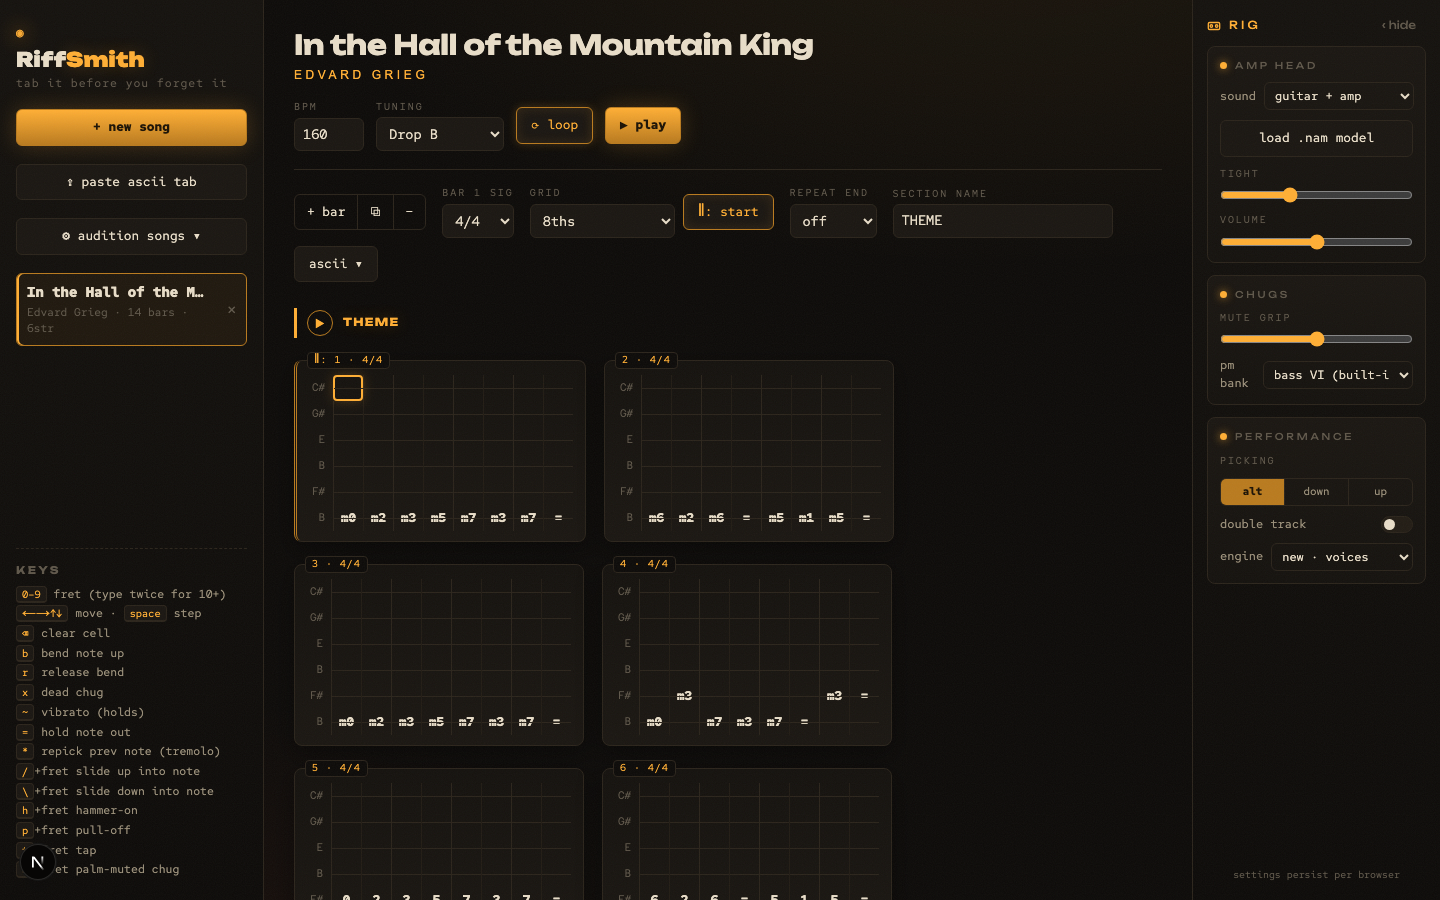
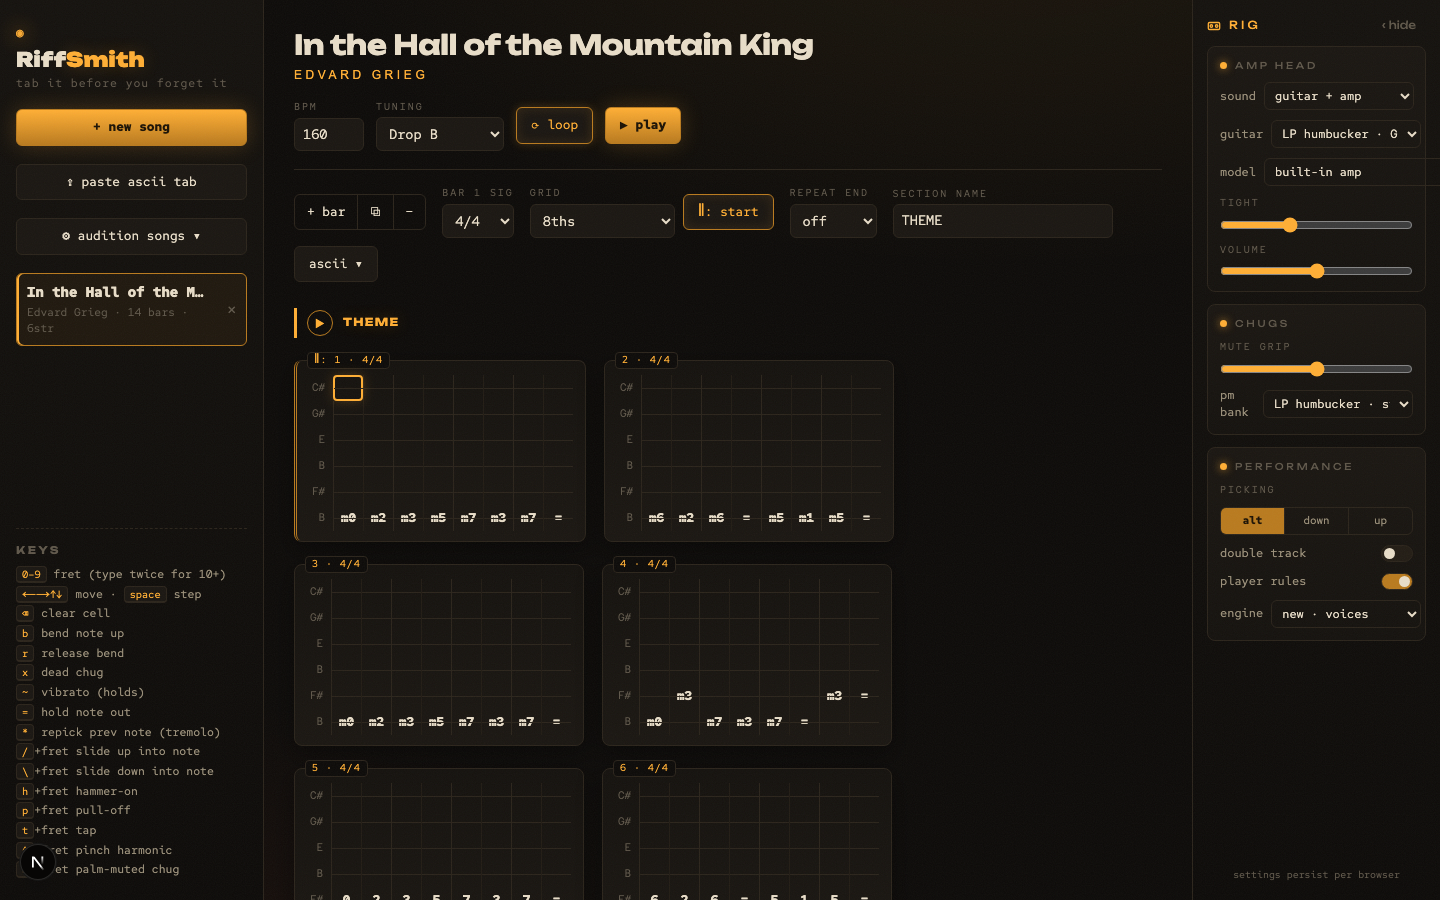
Promo screenshots and copy refreshed for the current engine (banks, pinch harmonics, string model status)

diff --git a/design/devpost.md b/design/devpost.md
@@ -19,7 +19,7 @@ Writing metal on a tab editor is slow, mechanical work: sixteenth-note chug runs
 
 ### What we built
 
-RiffSmith is a browser tab editor for guitar and bass, tuned for metal writing. It imports and exports ASCII tab (including messy hand-written tabs with dense chug runs, section headers, and repeat marks), supports per-bar time signatures from 2/4 to 12/8 and grids from quarters to 16th triplets, and loops any section while you keep editing. Playback runs through a lookahead AudioContext scheduler into a sampled guitar engine with persistent per-string voices: legato hammer-ons, pull-offs and taps as detune automation on one voice, real bends and releases, vibrato, slides, velocity-layered palm-mute chugs with round robins, tremolo picking that overlaps strokes over the ringing body, alternate/down/up picking, and optional double tracking. The signal then goes through a built-in amp chain with a synthetic cabinet IR, or through a real Neural Amp Modeler capture running as WASM inside an AudioWorklet, loudness-normalized from the model's metadata. A rig panel holds the amp and performance settings, and users can import their own palm-mute sample banks. It opens on a Drop B arrangement of Grieg's In the Hall of the Mountain King (public domain): palm-muted theme, the answer a fifth up, a tremolo-picked reprise, and a chord finale. The pure scheduling and import layers have 25 unit tests.
+RiffSmith is a browser tab editor for guitar and bass, tuned for metal writing. It imports and exports ASCII tab (including messy hand-written tabs with dense chug runs, section headers, and repeat marks), supports per-bar time signatures from 2/4 to 12/8 and grids from quarters to 16th triplets, and loops any section while you keep editing. Playback runs through a lookahead AudioContext scheduler into a sampled guitar engine with persistent per-string voices: legato hammer-ons, pull-offs and taps as detune automation on one voice, real bends and releases, vibrato, slides, velocity-layered palm-mute chugs with round robins, tremolo picking as real re-picked notes with a 12 ms handover, alternate/down/up picking, and optional double tracking. The signal then goes through a built-in amp chain with a synthetic cabinet IR, or through a real Neural Amp Modeler capture running as WASM inside an AudioWorklet, loudness-normalized from the model's metadata. The sound comes from real DI recordings with open licenses (Guitar-TECHS, CC BY 4.0, an LP humbucker with palm mutes and pinch harmonics on every position; FreePats, CC0), chosen string-aware so a note plays from the string it is tabbed on, with held bends and slides crossfading into real recordings of the target pitch. An experimental physical string model (Rust compiled to WebAssembly, running in an AudioWorklet) can take over the ring-out. A rig panel holds the amp and performance settings, and users can import their own palm-mute sample banks. It opens on a Drop B arrangement of Grieg's In the Hall of the Mountain King (public domain): palm-muted theme, the answer a fifth up, a tremolo-picked reprise, and a chord finale. The pure scheduling and import layers have 29 unit tests.
 
 ### Why this use case fits WebMCP
 

diff --git a/README.md b/README.md
@@ -81,7 +81,7 @@ Every one of those maps onto the tools above without any UI interaction.
 - Sections and repeat signs, with loop-per-riff playback by bar range or section name.
 - Live editing while looping. The scheduler re-reads song state as it advances, so edits land on the next pass.
 - Lookahead AudioContext scheduler: events are placed about 130 ms ahead on the audio clock and refreshed every 25 ms. JS timers decide when to schedule, never when a note sounds.
-- Sampled guitar engine with persistent per-string voices. Hammer-ons, pull-offs, taps, slides, bends, releases, and vibrato are continuous `detune` automation on the same voice, so a phrase gets one pick transient. Palm-mute chugs use velocity layers and round robins with gap-aware decay. Tremolo picking overlaps short stroke voices on top of the ringing body and re-excites it on long runs. Alternate, down, and up picking with per-stroke tone coloring. Optional double tracking with independent hard-panned L/R takes.
+- Sampled guitar engine with persistent per-string voices. Hammer-ons, pull-offs, taps, slides, bends, releases, and vibrato are continuous `detune` automation on the same voice, so a phrase gets one pick transient. Palm-mute chugs use velocity layers and round robins with gap-aware decay. Tremolo strokes are real re-picked notes with a 12 ms handover, cycling round robins; held bends, slides and hammer-ons crossfade into a recording of the target pitch instead of holding a resampled one. Alternate, down, and up picking with per-stroke tone coloring. Optional double tracking with independent hard-panned L/R takes.
 - Built-in amp chain: tightening high-pass and mid emphasis, waveshaper drive, post EQ, a synthetic cabinet impulse response rendered offline, and a compressor.
 - Neural Amp Modeler inference in an AudioWorklet. Load a `.nam` capture from disk (every capture you load is kept in a per-browser library, and an agent can switch between them). A deployment can also ship captures: drop `.nam` files in `public/nam/models/` with a `manifest.json` (`{ "models": [{ "name", "url", "credit", "creditUrl" }] }`) and the first one becomes the default amp until the user picks something else. That directory is gitignored because most captures are not redistributable; the model runs through `@opendaw/nam-wasm` at 48 kHz, output is loudness-normalized from the model's metadata, and the synthetic cab can be added after it for amp-only captures. A1 and A2 WaveNet models are supported. The loaded model persists in IndexedDB across reloads.
 - Rig side panel with persisted settings (tight, volume, mute grip, picking, double tracking, engine, cab, palm-mute bank, loop).

diff --git a/design/devpost-testing-instructions.md b/design/devpost-testing-instructions.md
@@ -18,6 +18,8 @@ Everything runs client-side; songs are stored in your browser.
    - "That's too loose — all downstrokes, more mute pressure, double-track it."
      (uses `get_rig` / `set_rig`; watch the rig panel sliders move)
    - "Change bar 1 to 3/4 and add a bend on the last note."
+   - "Put a pinch harmonic on the last note of bar 4 and switch the amp to the Fender bank."
+     (uses the `^fret` articulation and `set_rig note_bank`)
    - Paste any ASCII guitar tab and say "import this and tell me what you kept."
 4. Every write returns the resulting tab so the agent verifies its own work;
    edits appear live in the grid and stay human-editable — click any cell the
@@ -31,6 +33,7 @@ window.__webmcp.list()                                  // the 15 tool names
 await window.__webmcp.call("get_song", {})              // read the open song
 await window.__webmcp.call("write_notes", { bar: 1, string: 6, cells: "m0 m0 x 0" })
 await window.__webmcp.call("set_rig", { picking: "down", tight: 0.8 })
+await window.__webmcp.call("set_rig", { engine: "hybrid" })         // physical string model (experimental)
 await window.__webmcp.call("play", { section: "INTRO", loop: true })
 ```
 The shim calls the exact same tool functions the native registration exposes.
@@ -48,7 +51,7 @@ library (persists across reloads), and an agent can switch between them:
 
 ## Source
 
-Repo: [REPO URL] — `npm install && npm run dev`, `npm test` runs the 25-test
+Repo: [REPO URL] — `npm install && npm run dev`, `npm test` runs the 29-test
 suite over the scheduling/import layer. WebMCP implementation:
 `lib/webmcp.ts` (tool definitions, serialized queue, read-after-write
 consistency, early registration).
